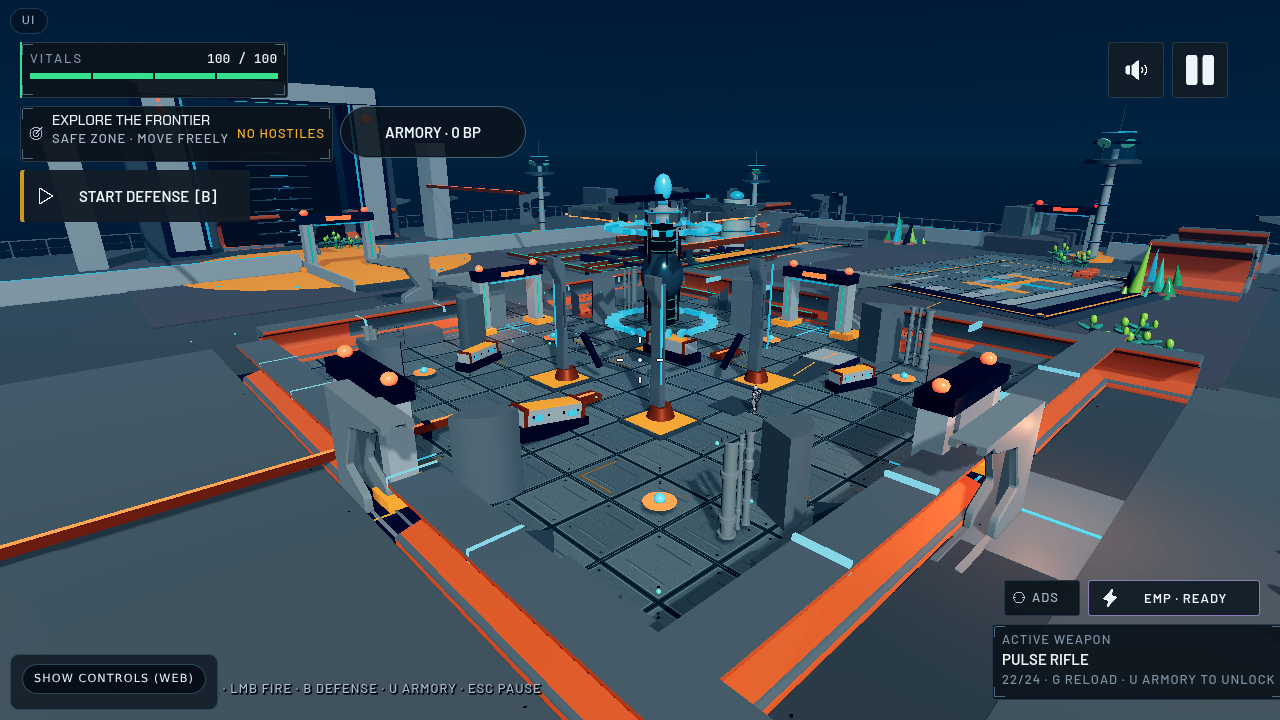
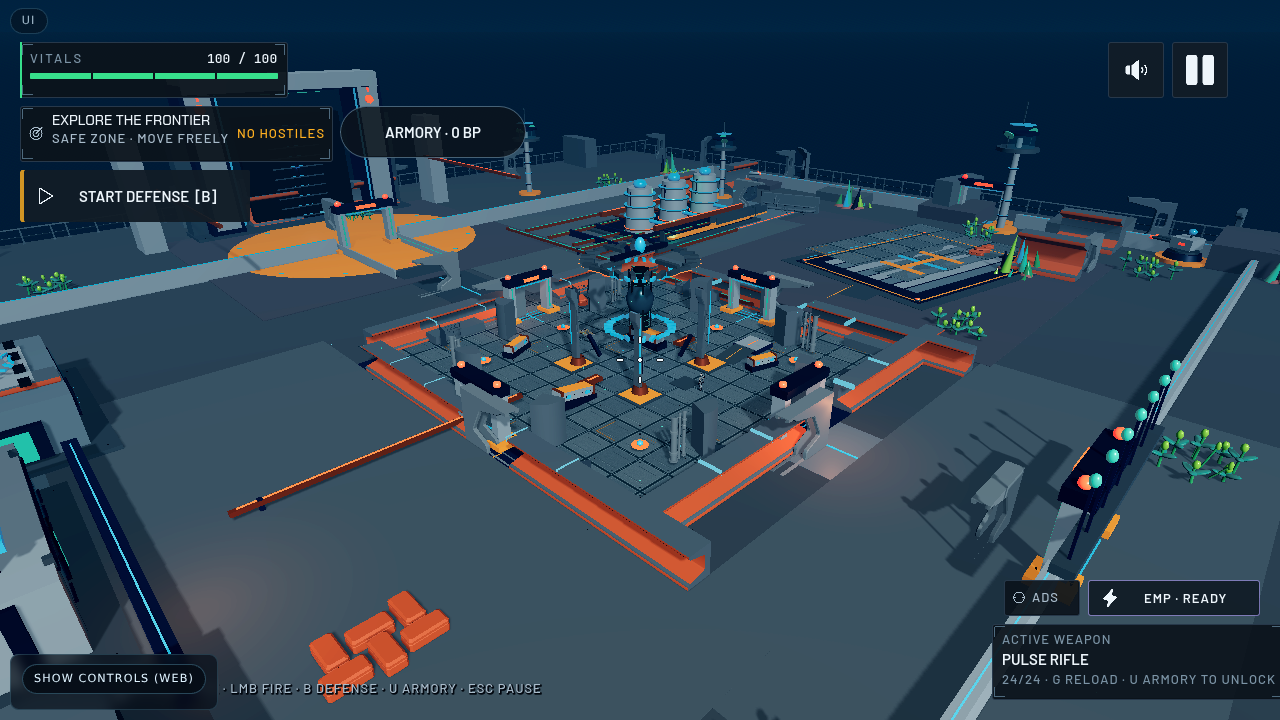
Prove the arena vantage fix with the frame it produced
Re-ran the tour against the payload CI re-exported from 354250c: 1/1 pass,
review camera engaged, 8 distinct frames. Vantage 1 now shows the whole 42 m
deck with its spawn structures, the reactor behind it and the neighbouring
districts in frame, and nothing occluding the deck. The evidence image is
replaced with that frame and the doc says fixed-and-measured rather than
recording an open observation.

diff --git a/docs/VERIFICATION_2026-10-22.md b/docs/VERIFICATION_2026-10-22.md
@@ -160,9 +160,13 @@ rather than of live gameplay relabelled as a tour.
 Not defects yet — observations from looking at the images, recorded so the next
 session does not have to rediscover them. No fix has been attempted.
 
-* **Vantage 1 (arena) is framed through geometry.** A pale slab sits across the
-  bottom third of the frame and an orange platform disc fills the centre
-  foreground. The vantage point is inside the structure it is meant to review.
+* **Vantage 1 (arena) was framed through geometry.** *(Fixed, measured.)* At
+  `(-27, 14, 27)` a pale perimeter slab crossed the bottom third of the frame
+  and the hazard disc filled the centre. The vantage is now `(-44, 30, 44)` at
+  55 deg FOV: the whole 42 m deck, its spawn structures, the reactor behind it
+  and the neighbouring districts are in frame, and nothing occludes the deck.
+  `qa-evidence/world-tour-2026-10-22/01-arena-vantage.png` is the frame after
+  the change, exported by CI and captured from the shipped payload.
 * **Two palettes are still in the tree.** `qa-evidence/scifi-bay/01-gameplay.png`
   and `qa-evidence/world-kit/01-arena.png` are the older pale-blue/cream build;
   the current payload is dark navy with orange accent bands and cyan emissives.
